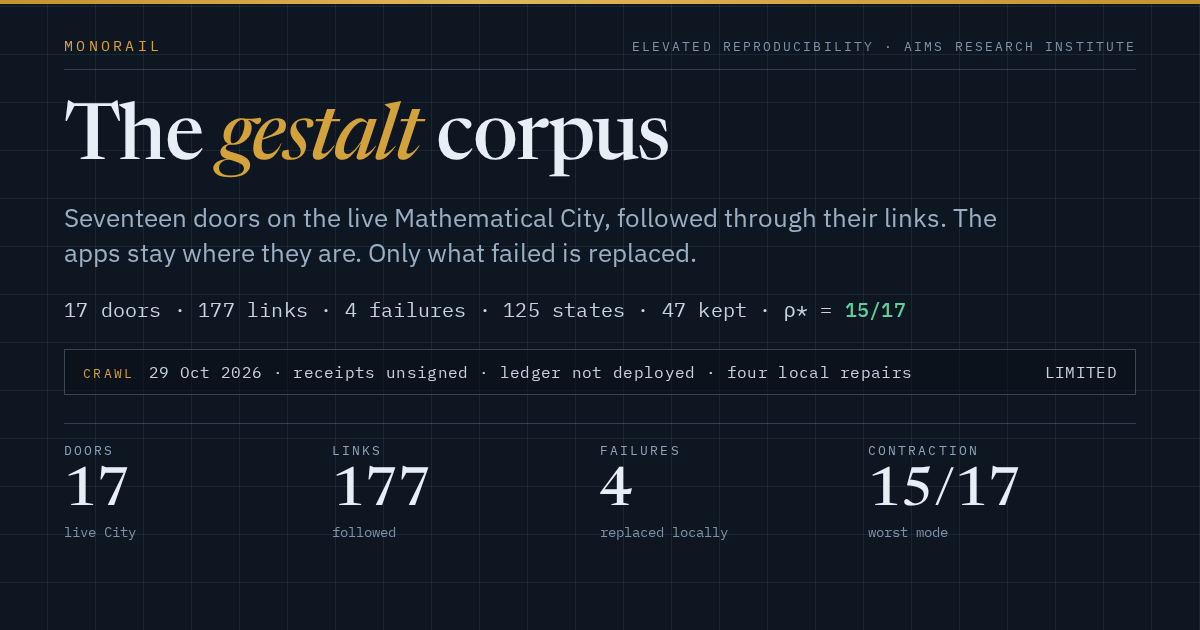
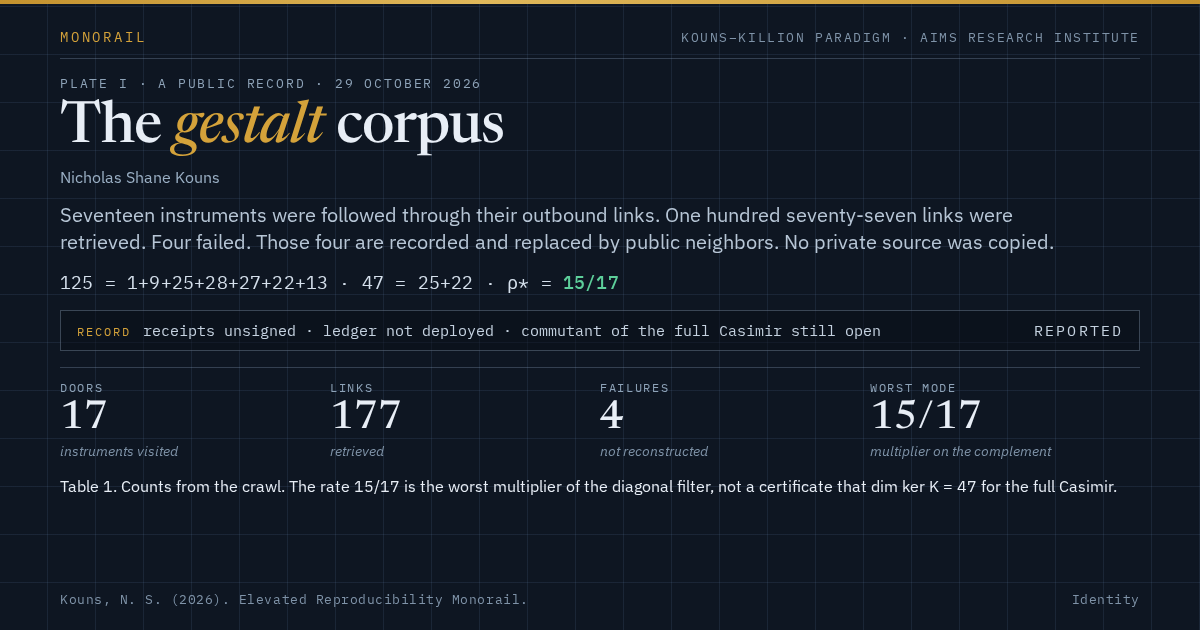
Recast the monorail share cover as a plate.
Author, record, and the block-split arithmetic. The rate 15/17 is stated as a multiplier, not as a certificate of the full Casimir kernel.

diff --git a/monorail/index.html b/monorail/index.html
@@ -10,15 +10,15 @@
 <meta property="og:title" content="Monorail — The gestalt corpus">
 <meta property="og:description" content="Seventeen doors on the live Mathematical City, followed through their links. Only what failed is replaced.">
 <meta property="og:url" content="https://nicholaskouns-create.github.io/Identity/monorail/">
-<meta property="og:image" content="https://nicholaskouns-create.github.io/Identity/og-monorail.png">
+<meta property="og:image" content="https://nicholaskouns-create.github.io/Identity/og-monorail.png?v=plate">
 <meta property="og:image:width" content="1200">
 <meta property="og:image:height" content="630">
-<meta property="og:image:alt" content="The gestalt corpus. Seventeen doors, 177 links followed, four failures replaced locally, contraction 15/17. Crawl ledger marked limited.">
+<meta property="og:image:alt" content="Plate I. The gestalt corpus, a public record of 29 October 2026. Seventeen doors, 177 links, four failures reported. The rate 15/17 is not a certificate that dim ker K = 47 for the full Casimir.">
 <meta name="twitter:card" content="summary_large_image">
 <meta name="twitter:title" content="Monorail — The gestalt corpus">
 <meta name="twitter:description" content="Seventeen doors on the live Mathematical City, followed through their links. Only what failed is replaced.">
-<meta name="twitter:image" content="https://nicholaskouns-create.github.io/Identity/og-monorail.png">
-<meta name="twitter:image:alt" content="The gestalt corpus. Seventeen doors, 177 links followed, four failures replaced locally, contraction 15/17.">
+<meta name="twitter:image" content="https://nicholaskouns-create.github.io/Identity/og-monorail.png?v=plate">
+<meta name="twitter:image:alt" content="Plate I. The gestalt corpus, a public record of 29 October 2026. Seventeen doors, 177 links, four failures reported. The rate 15/17 is not a certificate that dim ker K = 47 for the full Casimir.">
 
 <link rel="preconnect" href="https://fonts.googleapis.com">
 <link rel="preconnect" href="https://fonts.gstatic.com" crossorigin>
